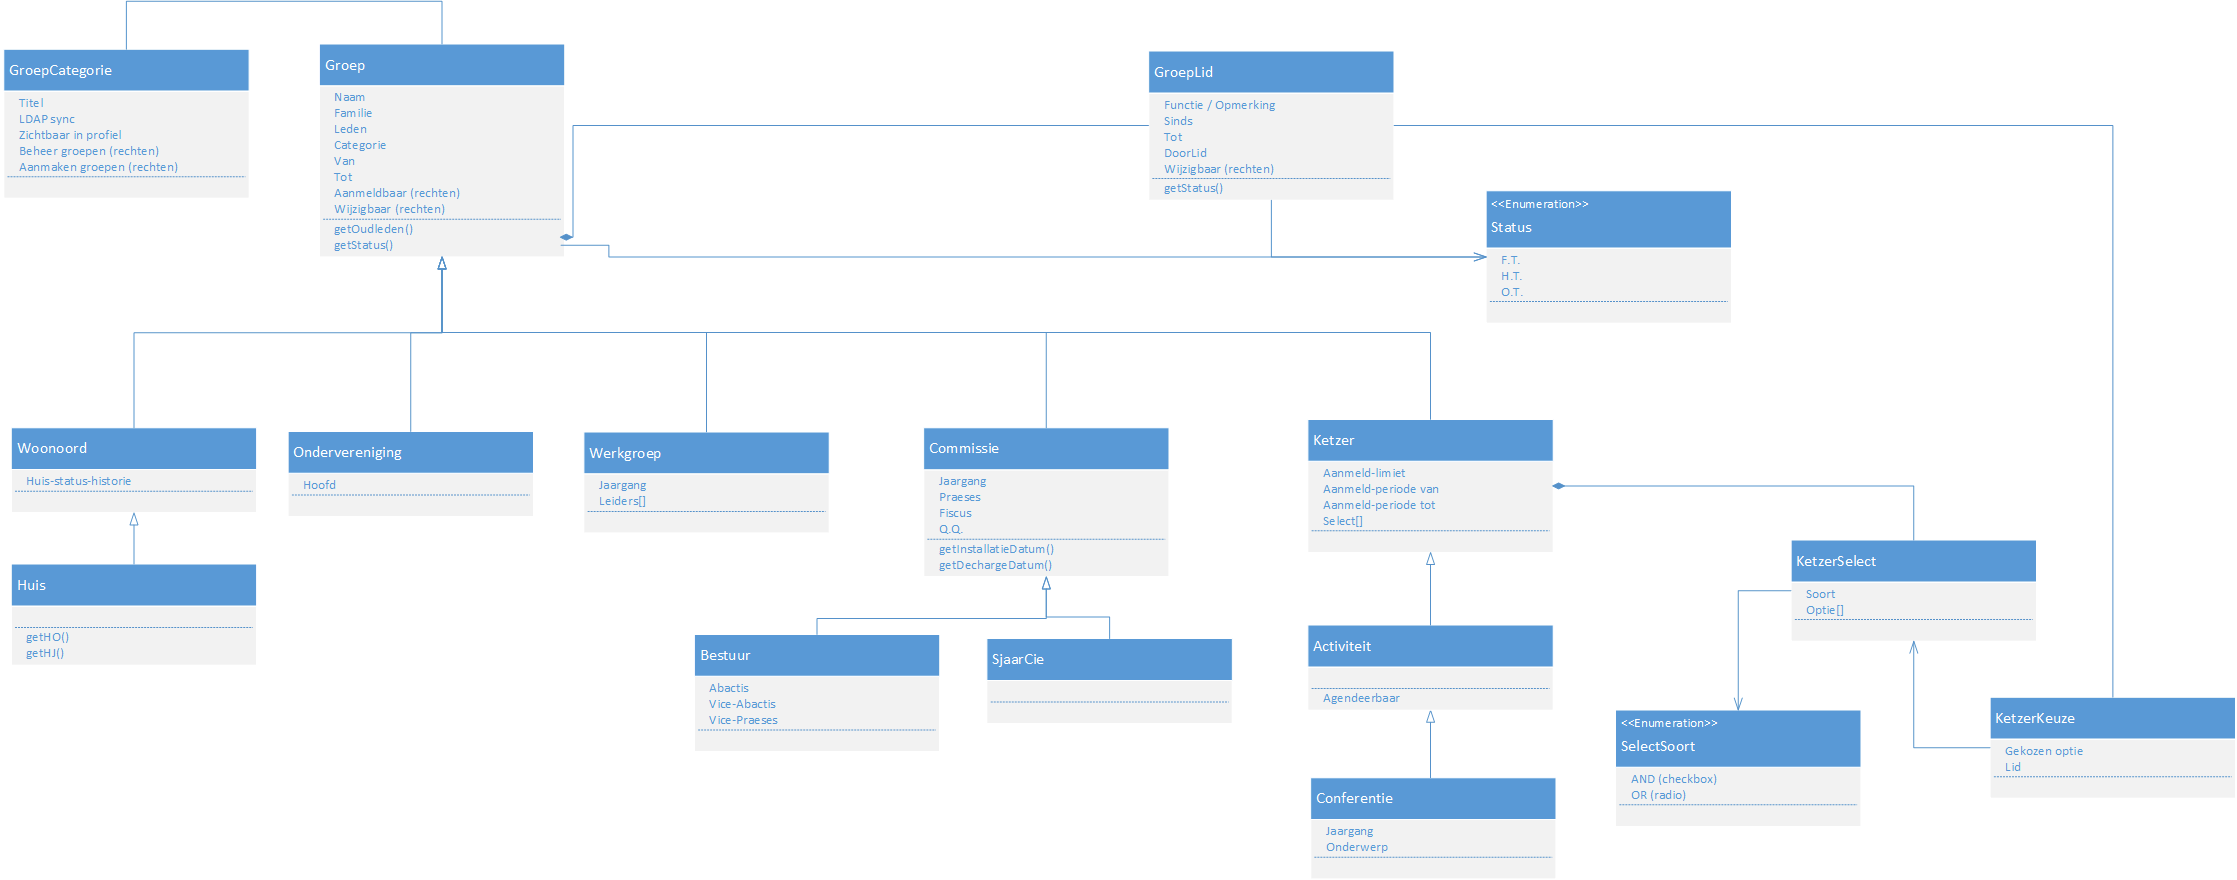
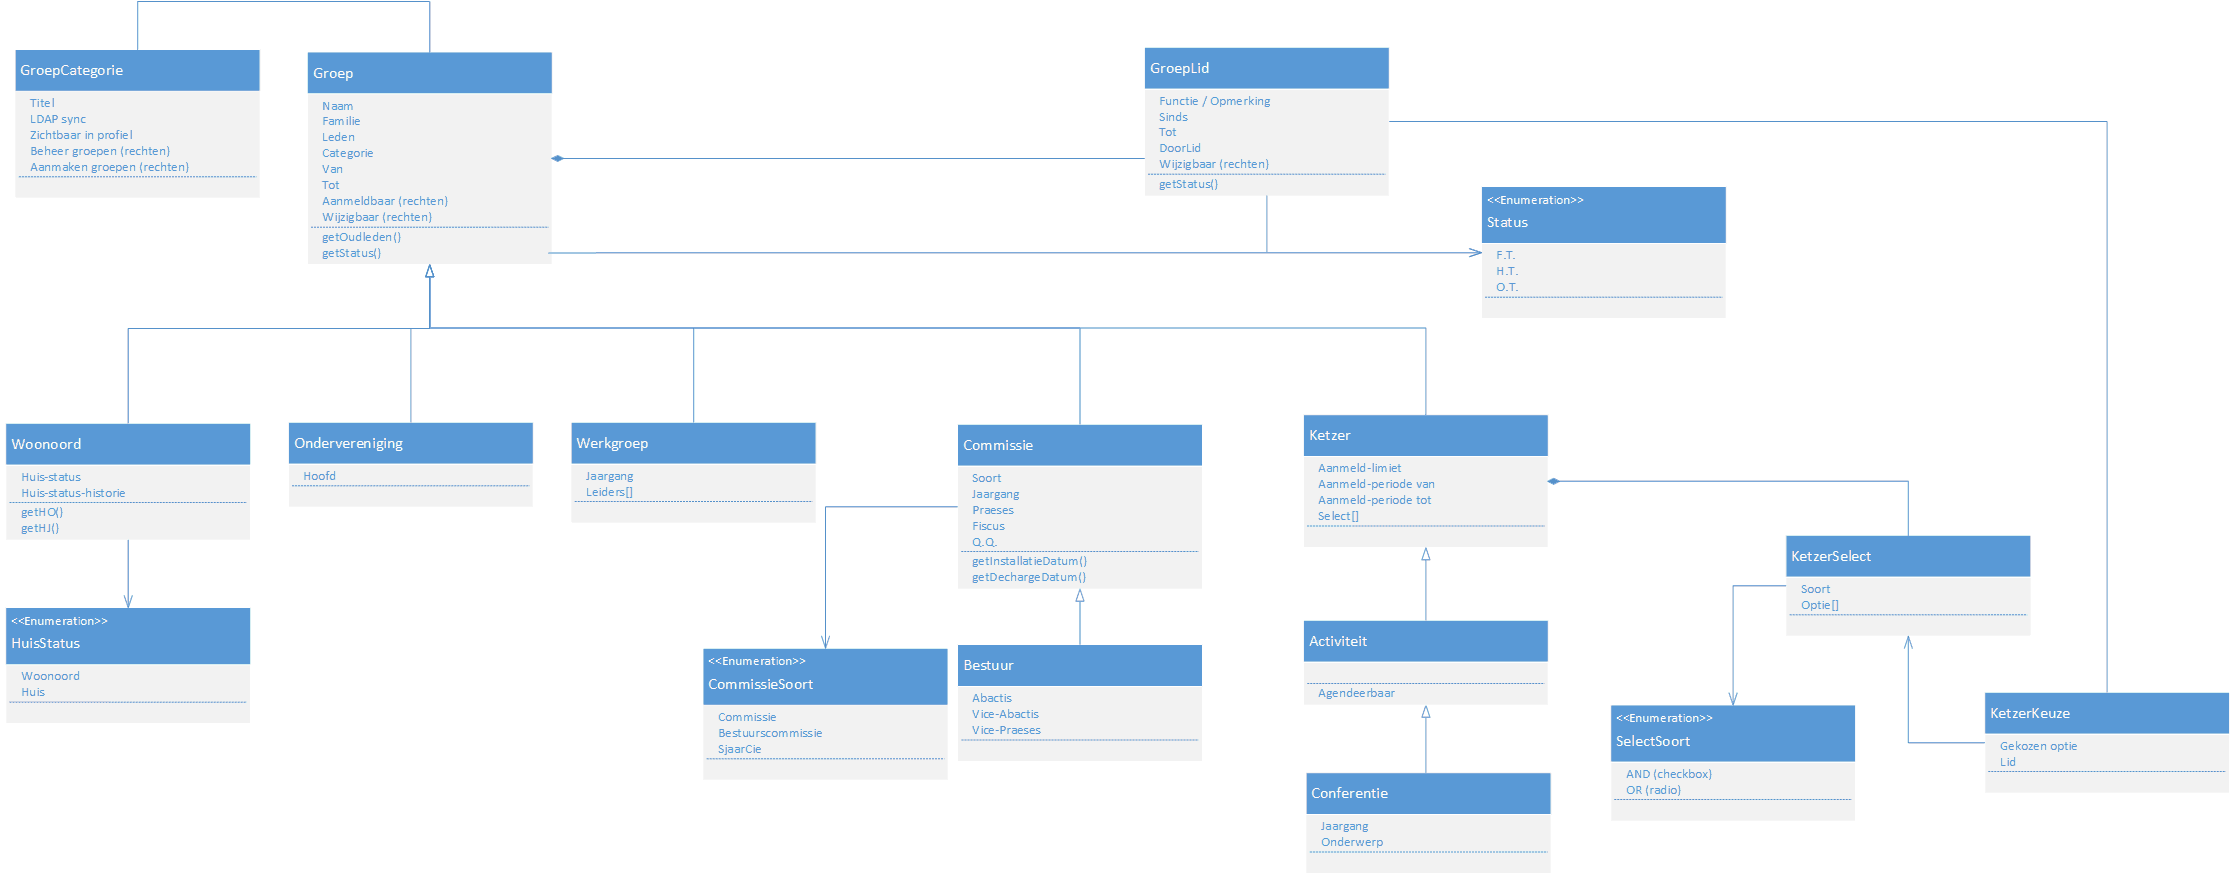
groep niet abstract;

diff --git a/lib/MVC/view/groepen/GroepenView.class.php b/lib/MVC/view/groepen/GroepenView.class.php
@@ -11,31 +11,46 @@ require_once 'MVC/view/CmsPaginaView.class.php';
  * @author P.W.G. Brussee <brussee@live.nl>
  * 
  */
-abstract class GroepenView extends SmartyTemplateView {
+class GroepenView implements View {
 
+	protected $titel;
 	/**
 	 * Toon CMS pagina
 	 * @var string
 	 */
 	protected $pagina;
+	/**
+	 * Lijst van groepen
+	 * @var PDOStatement
+	 */
+	protected $groepen;
 
-	public function __construct($groepen, $pagina, $titel = false) {
-		parent::__construct($groepen, $titel);
+	public function __construct($groepen, $pagina) {
+		$this->groepen = $groepen;
 		$this->pagina = CmsPaginaModel::instance()->getPagina($pagina);
 		if ($this->pagina) {
 			$this->titel = $this->pagina->titel;
 		}
 	}
 
+	public function getModel() {
+		return $this->groepen;
+	}
+
+	public function getTitel() {
+		return $this->titel;
+	}
+
 	public function view() {
-		$this->smarty->assign('groepen', $this->model);
-		$this->smarty->display('MVC/groepen/menu_pagina.tpl');
+		$smarty = CsrSmarty::instance();
+		$smarty->assign('groepen', $this->groepen);
+		$smarty->display('MVC/groepen/menu_pagina.tpl');
 		//$this->smarty->display('MVC/groepen/inhoudsopgave.tpl'); //FIXME: cannot iterate more than once over PDO statement of groepen
 		if ($this->pagina) {
 			$pagina = new CmsPaginaView($this->pagina);
 			$pagina->view();
 		}
-		foreach ($this->model as $groep) {
+		foreach ($this->groepen as $groep) {
 			$class = get_class($groep) . 'View';
 			$class = new $class($groep, GroepTab::Lijst);
 			$class->view();
@@ -44,13 +59,14 @@ abstract class GroepenView extends SmartyTemplateView {
 
 }
 
-abstract class GroepView extends SmartyTemplateView {
+class GroepView implements View {
 
+	protected $groep;
 	protected $tab;
 	protected $tabContent;
 
 	public function __construct(Groep $groep, $groepTab) {
-		parent::__construct($groep);
+		$this->groep = $groep;
 		$this->tab = $groepTab;
 		switch ($this->tab) {
 			default:
@@ -69,11 +85,20 @@ abstract class GroepView extends SmartyTemplateView {
 		}
 	}
 
+	public function getModel() {
+		return $this->groep;
+	}
+
+	public function getTitel() {
+		return $this->getModel()->naam;
+	}
+
 	public function view() {
-		$this->smarty->assign('groep', $this->model);
-		$this->smarty->assign('tab', $this->tab);
-		$this->smarty->assign('tabContent', $this->tabContent);
-		$this->smarty->display('MVC/groepen/groep.tpl'); //TODO: get_class($this->model)
+		$smarty = CsrSmarty::instance();
+		$smarty->assign('groep', $this->groep);
+		$smarty->assign('tab', $this->tab);
+		$smarty->assign('tabContent', $this->tabContent);
+		$smarty->display('MVC/groepen/groep.tpl'); //TODO: get_class($this->groep)
 	}
 
 }

diff --git a/lib/MVC/model/GroepenModel.class.php b/lib/MVC/model/GroepenModel.class.php
@@ -1,6 +1,6 @@
 <?php
 
-require_once 'MVC/model/entity/groepen/Groep.abstract.php';
+require_once 'MVC/model/entity/groepen/Groep.class.php';
 
 /**
  * GroepenModel.class.php
@@ -8,7 +8,7 @@ require_once 'MVC/model/entity/groepen/Groep.abstract.php';
  * @author P.W.G. Brussee <brussee@live.nl>
  * 
  */
-abstract class GroepenModel extends PersistenceModel {
+class GroepenModel extends PersistenceModel {
 
 	protected function __construct() {
 		parent::__construct('groepen/');

diff --git a/lib/MVC/controller/groepen/GroepenController.class.php b/lib/MVC/controller/groepen/GroepenController.class.php
@@ -3,13 +3,13 @@
 require_once 'MVC/view/groepen/GroepenView.class.php';
 
 /**
- * GroepenController.abstract.php
+ * GroepenController.class.php
  * 
  * @author P.W.G. Brussee <brussee@live.nl>
  * 
  * Controller voor groepen.
  */
-abstract class GroepenController extends Controller {
+class GroepenController extends Controller {
 
 	public function __construct($query, GroepenModel $model) {
 		parent::__construct($query, $model);

diff --git a/lib/MVC/model/entity/groepen/Groep.class.php b/lib/MVC/model/entity/groepen/Groep.class.php
@@ -4,14 +4,14 @@ require_once 'MVC/model/entity/groepen/GroepLid.class.php';
 require_once 'MVC/model/entity/groepen/GroepStatus.enum.php';
 
 /**
- * Groep.abstract.php
+ * Groep.class.php
  * 
  * @author P.W.G. Brussee <brussee@live.nl>
  * 
  * Een groep met leden en status.
  * Optioneel in familie voor opvolging.
  */
-abstract class Groep extends PersistentEntity {
+class Groep extends PersistentEntity {
 
 	/**
 	 * Primary key

diff --git a/htdocs/index.php b/htdocs/index.php
@@ -40,7 +40,7 @@ try {
 		$queries = DatabaseAdmin::getQueries();
 
 		if (empty($queries)) {
-			debugprint('DB_MODIFY ENABLED');
+			SimpleHTML::setMelding('DB_MODIFY ENABLED', 2);
 		} else {
 			header('Content-Type: text/x-sql');
 			header('Content-Disposition: attachment;filename=DB_modify_' . time() . '.sql');

diff --git a/lib/MVC/controller/groepen/BesturenController.class.php b/lib/MVC/controller/groepen/BesturenController.class.php
@@ -12,7 +12,7 @@ require_once 'MVC/view/groepen/BesturenView.class.php';
 class BesturenController extends GroepenController {
 
 	public function __construct($query) {
-		parent::__construct($query, CommissiesModel::instance());
+		parent::__construct($query, BesturenModel::instance());
 	}
 
 }

diff --git a/lib/MVC/controller/GroepenRouterController.class.php b/lib/MVC/controller/GroepenRouterController.class.php
@@ -1,6 +1,6 @@
 <?php
 
-require_once 'MVC/controller/groepen/GroepenController.abstract.php';
+require_once 'MVC/controller/groepen/GroepenController.class.php';
 require_once 'MVC/model/GroepenModel.class.php';
 require_once 'MVC/view/groepen/GroepenView.class.php';
 
